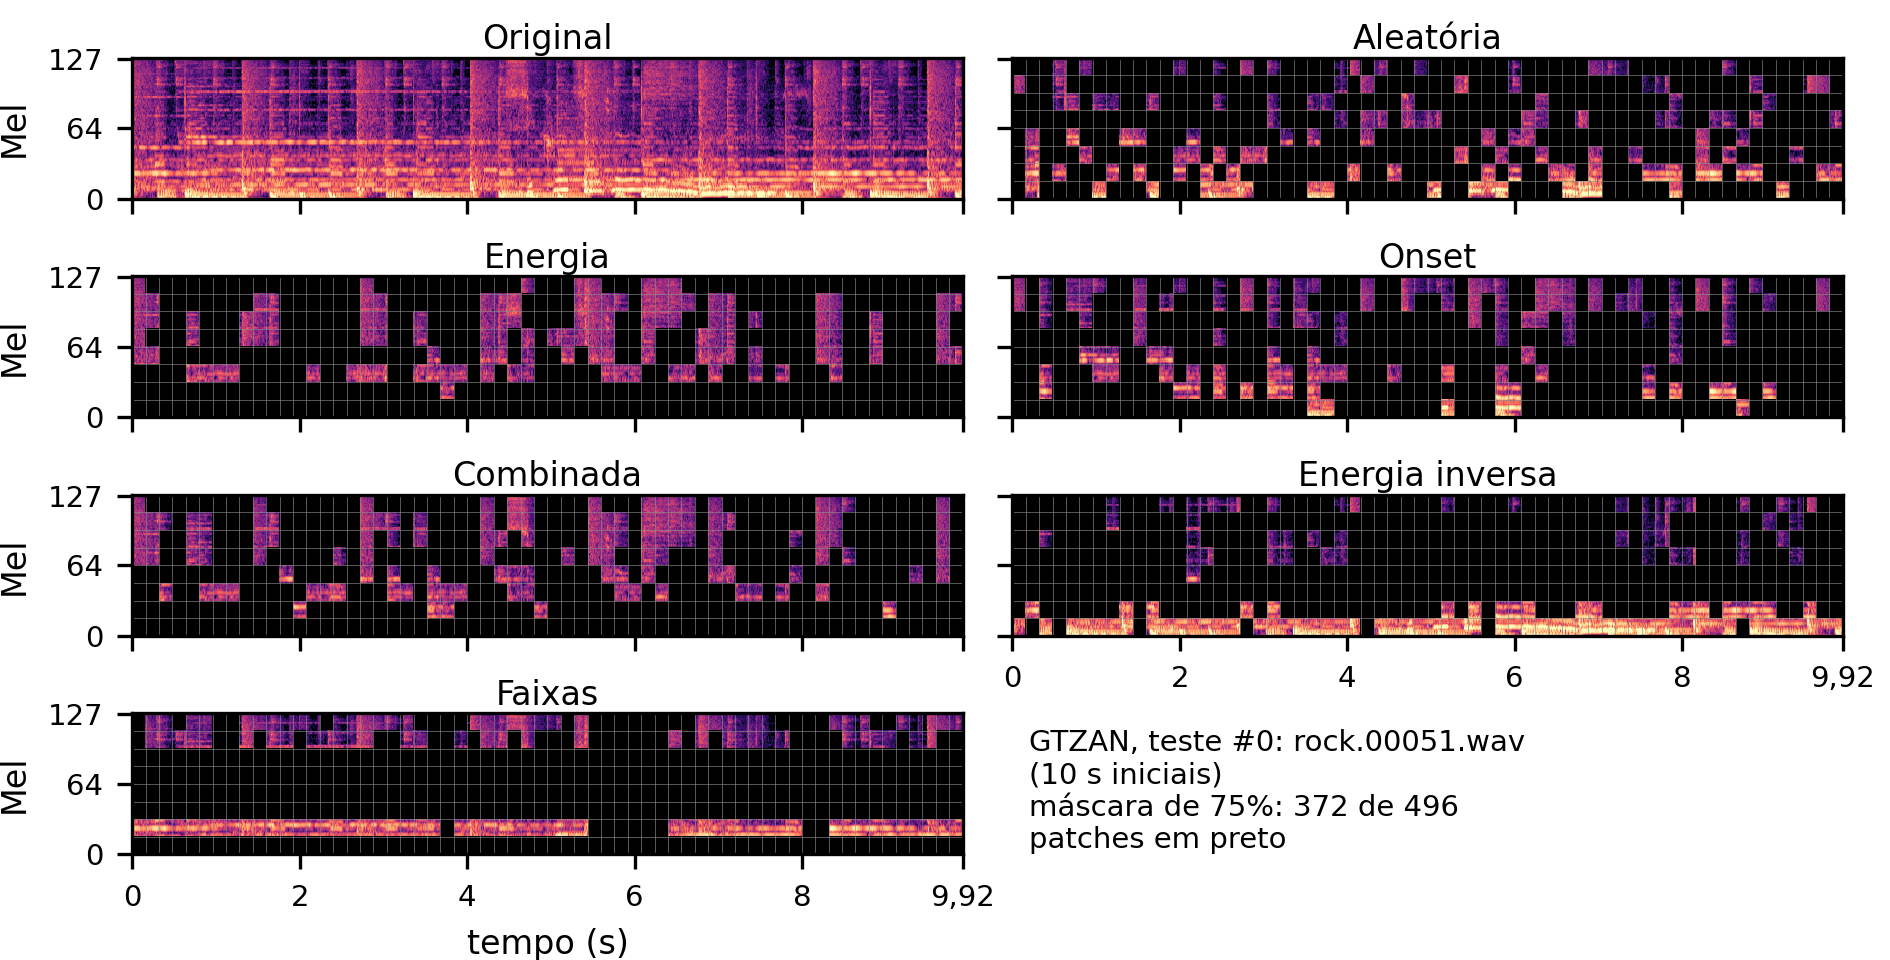
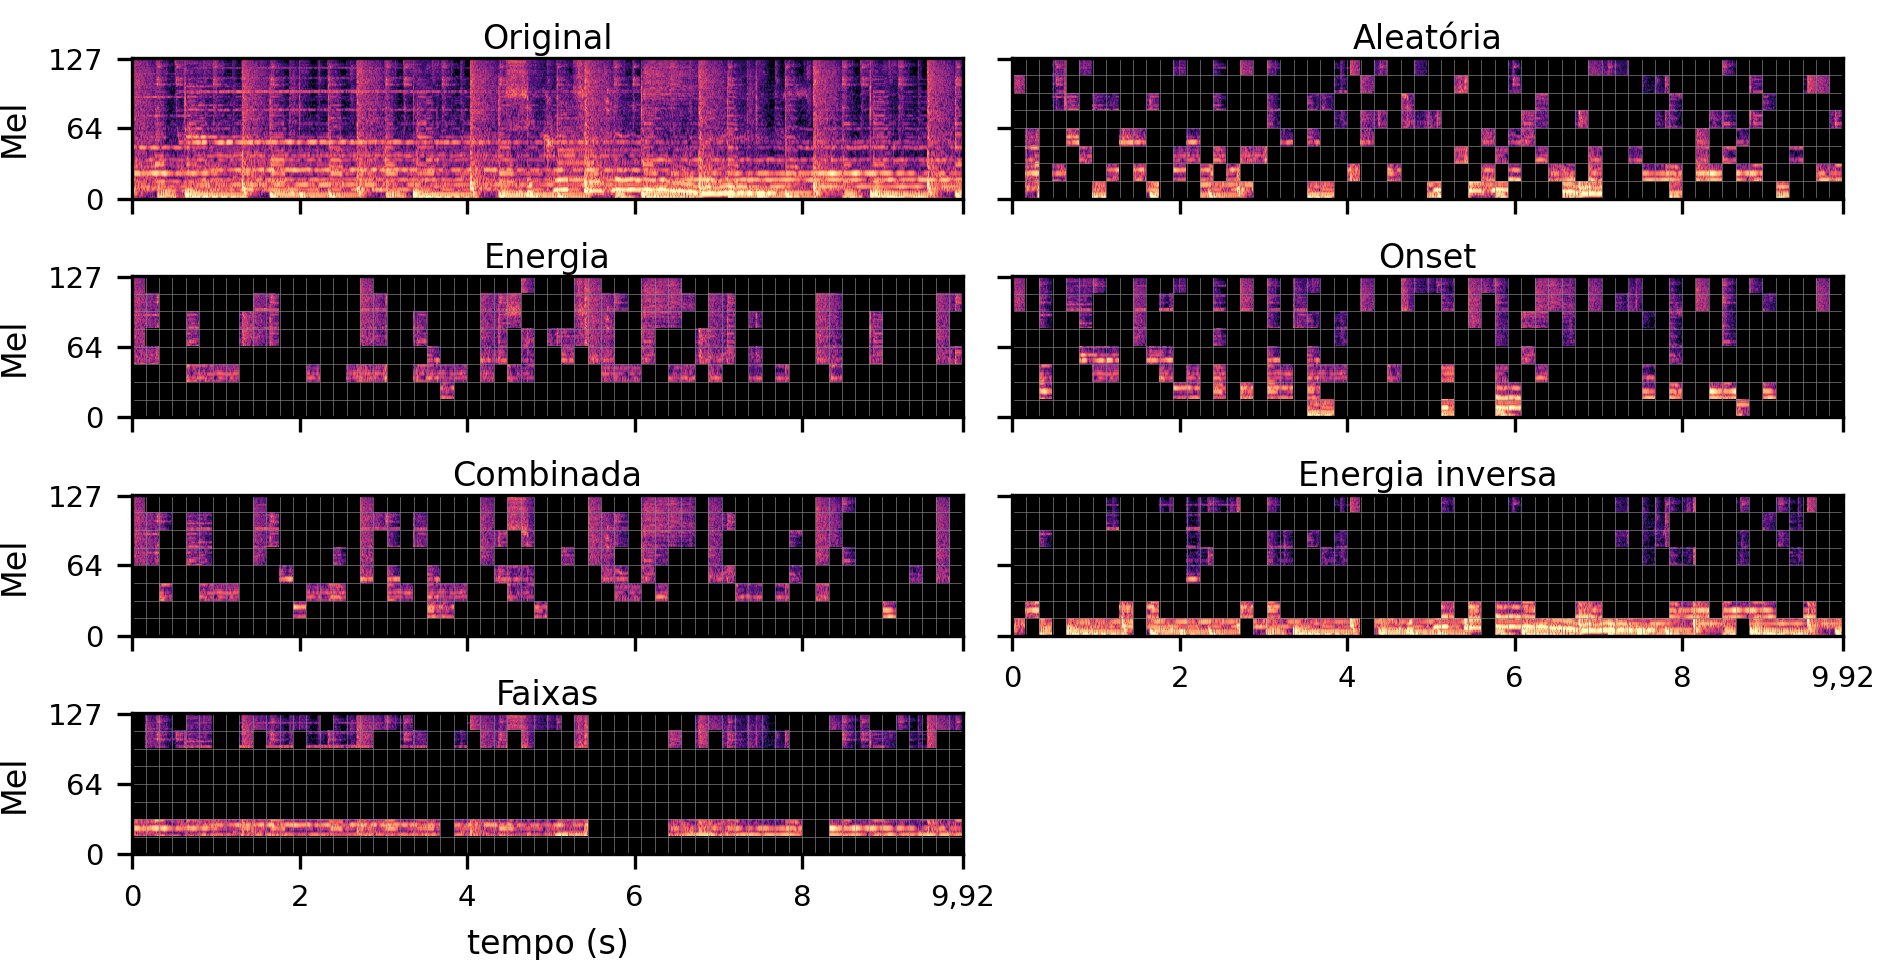
Figura 2: remove anotação interna (informação passa para a legenda)

Changed region(s): [[0.5307, 0.75, 0.8116, 0.9062]]

diff --git a/figura_mascaras.py b/figura_mascaras.py
@@ -84,9 +84,7 @@ def main():
     for k, ax in enumerate(axs.flat):
         r, c = divmod(k, 2)
         if k >= len(paineis):
-            ax.axis('off')
-            ax.text(0.02, 0.0, 'GTZAN, teste #%d: %s\n(10 s iniciais)\nmáscara de 75%%: 372 de 496\npatches em preto'
-                    % (IDX, arquivo), transform=ax.transAxes, va='bottom', ha='left', fontsize=7)
+            ax.axis('off')   # celula vazia; o trecho e a taxa ficam na legenda do LaTeX
             continue
         nome, m = paineis[k]
         img = spec.copy()
